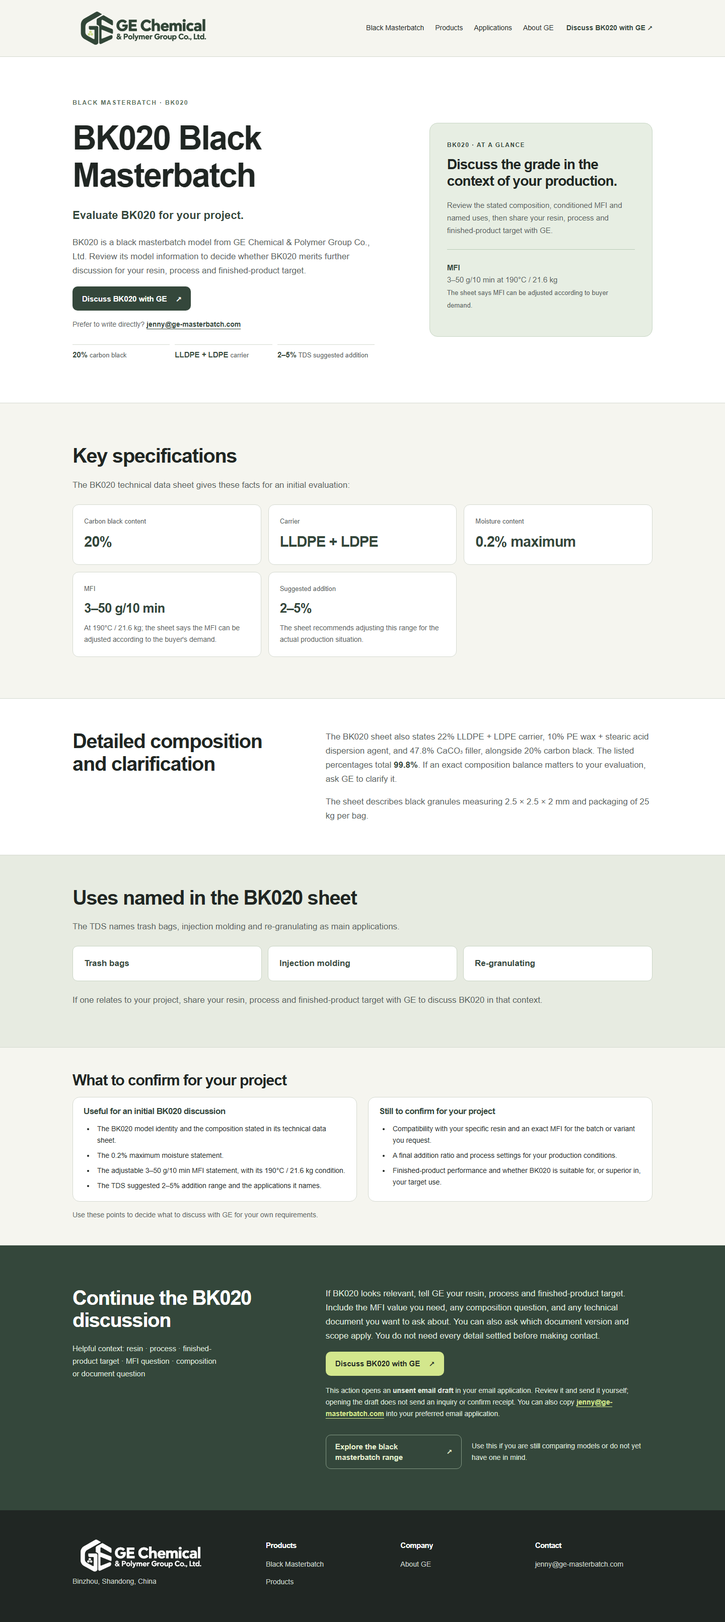
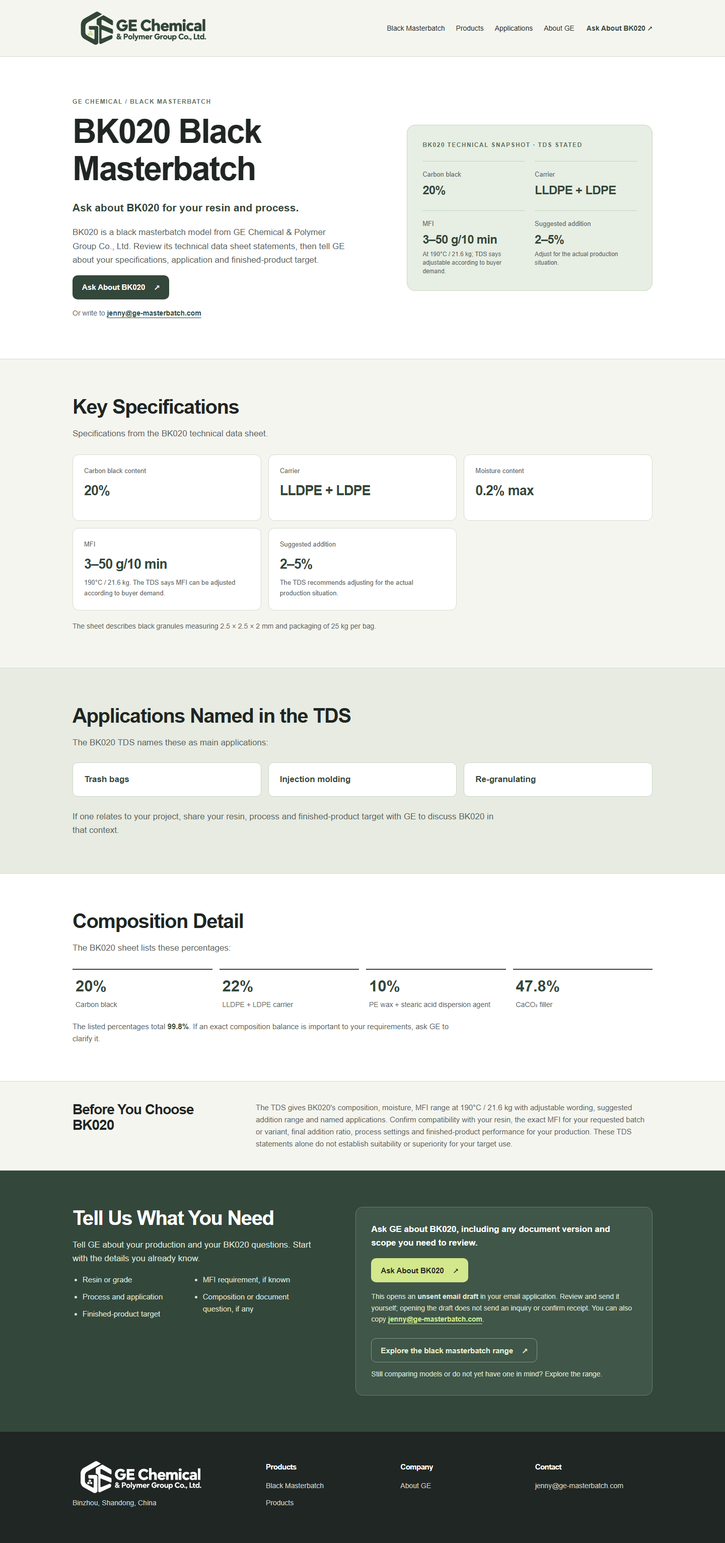
Refocus P017 visual on technical inquiries

diff --git a/planning/visuals/P017/p017-visual.css b/planning/visuals/P017/p017-visual.css
@@ -1,12 +1,6 @@
-:root{--ink:#202623;--green:#34473b;--paper:#f5f5ef;--accent:#d3e78d;--muted:#59645d;--line:#d5dad1}*{box-sizing:border-box}html{scroll-behavior:smooth}body{margin:0;color:var(--ink);background:var(--paper);font:17px/1.65 Arial,Helvetica,sans-serif}a{color:inherit;text-underline-offset:4px}a:focus-visible,summary:focus-visible{outline:3px solid #668821;outline-offset:4px}h1,h2,h3,p{margin-top:0}h1,h2,h3{line-height:1.12;letter-spacing:-.035em}h1{font-size:66px;margin:0 0 24px}h2{font-size:40px;margin:0 0 22px}h3{font-size:22px}p{color:var(--muted)}.shell{max-width:1280px;margin:auto;padding:0 64px}.draft-note{text-align:center;background:#e4e6dd;padding:8px;font-size:12px;color:#455047}.site-header{border-bottom:1px solid var(--line)}.header-inner{height:112px;display:flex;align-items:center;gap:25px;position:relative}.brand{display:block;width:280px;height:82px;flex:none;overflow:hidden}.brand img{width:100%;height:100%;object-fit:cover}.desktop-nav{margin-left:auto;display:flex;gap:22px}.desktop-nav a{font-size:14px;text-decoration:none;white-space:nowrap}.header-inquiry{font-size:14px;color:var(--green);font-weight:700;text-decoration:none;white-space:nowrap}.mobile-menu{display:none}.module{border-bottom:1px solid var(--line)}.module>.shell{padding-top:82px;padding-bottom:82px}.hero{background:#fff}.hero-layout{display:grid;grid-template-columns:1.1fr .9fr;gap:58px;align-items:center;min-height:620px}.hero p{max-width:620px}.eyebrow,.number{display:block;text-transform:uppercase;letter-spacing:.15em;font-size:12px;font-weight:700;color:#59705b;margin:0 0 23px}.lead{font-size:22px;color:var(--green)}.hero-art{height:480px;border-radius:16px;background:radial-gradient(circle at 70% 25%,#4d6750,#26362c 57%,#18271e);position:relative;overflow:hidden;display:flex;align-items:center;justify-content:center}.hero-art:before{content:"";position:absolute;inset:35px;border:1px solid #b9ceae44;border-radius:12px}.model-glyph{color:#d3e78d;font-size:110px;font-weight:700;letter-spacing:-.1em;line-height:1}.model-glyph span{display:block;color:#fff;font-size:85px;letter-spacing:.02em;text-align:right}.art-lines{position:absolute;bottom:50px;right:45px;display:grid;gap:9px}.art-lines i{display:block;width:140px;border-top:1px solid #d3e78d88}.art-lines i:nth-child(2){width:100px;margin-left:auto}.art-lines i:nth-child(3){width:60px;margin-left:auto}.btn{display:inline-flex;justify-content:space-between;align-items:center;gap:18px;min-height:48px;padding:12px 18px;border:1px solid transparent;border-radius:10px;font-size:15px;line-height:1.4;font-weight:600;text-decoration:none}.primary{background:var(--green);color:#fff}.primary:hover{background:#293d30}.secondary{border-color:#aebbad;color:var(--green)}.secondary:hover{background:#e8ede3}.direct{font-size:14px;margin:16px 0 0}.direct a,.mailto-note a{color:var(--green);font-weight:700}.section-top{max-width:760px}.facts{background:var(--paper)}table{width:100%;border-collapse:collapse;margin-top:32px;background:#fff}th,td{text-align:left;padding:18px 22px;border-bottom:1px solid var(--line);vertical-align:top}thead th{background:var(--green);color:#fff;font-size:14px}tbody th{width:30%;color:var(--green)}tbody td{max-width:700px}.section-grid{display:grid;grid-template-columns:.8fr 1.2fr;gap:70px}.prose{max-width:720px}.prose p:last-child{margin-bottom:0}.composition{background:#fff}.composition strong{color:var(--green)}.uses{background:#e7ebe1}.decision{background:#fff}.decision-grid{display:grid;grid-template-columns:1fr 1fr;gap:22px;margin-top:34px}.decision-card{padding:30px;border-radius:14px;background:#e7eee3;border:1px solid #c8d6c5}.decision-card h3{color:var(--green);margin-bottom:22px}.muted-card{background:var(--paper);border-color:var(--line)}.decision-card ul{padding-left:22px;margin:0}.decision-card li{margin:0 0 15px;padding-left:5px}.decision-card li:last-child{margin-bottom:0}.decision-close{margin:25px 0 0}.closing{background:var(--green);border:0}.closing h2,.closing .number{color:#fff}.closing p{color:#dde5da}.closing .primary{background:var(--accent);color:var(--ink)}.closing .primary:hover{background:#e0ecb0}.closing .secondary{color:#e3edce;border-color:#819783}.mailto-note{font-size:14px;margin-top:18px}.mailto-note a{color:var(--accent)}.secondary-line{display:flex;align-items:center;gap:20px;margin-top:30px}.secondary-line span{font-size:14px}.site-footer{background:var(--ink);color:#fff}.footer-grid{display:grid;grid-template-columns:1.5fr 1fr 1fr 1fr;gap:34px;padding-top:50px;padding-bottom:55px}.footer-identity .brand{width:270px;height:80px}.footer-identity img{filter:grayscale(1) brightness(0) invert(1)}.footer-grid p,.footer-grid a{color:#cbd4cc;font-size:14px}.footer-grid h3{font-size:15px;margin:12px 0 17px}.footer-grid>div:not(:first-child) a{display:block;margin:0 0 12px;text-decoration:none;overflow-wrap:anywhere}
+:root{--ink:#202623;--green:#34473b;--paper:#f5f5ef;--accent:#d3e78d;--muted:#59645d;--line:#d5dad1}*{box-sizing:border-box}html{scroll-behavior:smooth}body{margin:0;background:var(--paper);color:var(--ink);font:17px/1.6 Arial,Helvetica,sans-serif}a{color:inherit;text-underline-offset:4px}a:focus-visible,summary:focus-visible{outline:3px solid #668821;outline-offset:4px}h1,h2,h3,p{margin-top:0}h1,h2,h3{line-height:1.13;letter-spacing:-.035em}h1{font-size:66px;margin-bottom:25px}h2{font-size:40px;margin-bottom:17px}h3{font-size:17px}p{color:var(--muted)}.shell{max-width:1280px;margin:auto;padding:0 64px}.module{border-bottom:1px solid var(--line)}.module>.shell{padding-top:72px;padding-bottom:72px}.site-header{border-bottom:1px solid var(--line)}.header-inner{height:112px;display:flex;align-items:center;gap:24px;position:relative}.brand{display:block;flex:none;width:280px;height:82px;overflow:hidden}.brand img{width:100%;height:100%;object-fit:cover}.desktop-nav{margin-left:auto;display:flex;gap:22px}.desktop-nav a{font-size:14px;text-decoration:none;white-space:nowrap}.header-inquiry{font-size:14px;font-weight:700;color:var(--green);text-decoration:none;white-space:nowrap}.mobile-menu{display:none}.btn{display:inline-flex;align-items:center;justify-content:space-between;gap:18px;min-height:48px;padding:12px 18px;border:1px solid transparent;border-radius:10px;text-decoration:none;font-size:15px;font-weight:700;line-height:1.4}.primary{background:var(--green);color:#fff}.primary:hover{background:#293d30}.secondary{border-color:#859785;color:#e3edce}.secondary:hover{background:#455b47}.hero{background:#fff}.hero-layout{min-height:600px;display:grid;grid-template-columns:1.1fr .9fr;align-items:center;gap:68px}.hero-copy{max-width:620px}.eyebrow,.snapshot-label{text-transform:uppercase;letter-spacing:.12em;font-size:12px;font-weight:700;color:#59705b}.lead{font-size:21px;color:var(--green);font-weight:700;line-height:1.4}.hero-copy>p:not(.eyebrow):not(.lead):not(.direct){max-width:550px}.direct{font-size:14px;margin:16px 0 0}.direct a{color:var(--green);font-weight:700}.snapshot{background:#e7eee3;border:1px solid #c8d6c5;border-radius:16px;padding:30px}.snapshot-label{margin:0 0 22px}.snapshot-grid{display:grid;grid-template-columns:1fr 1fr;gap:20px}.snapshot-grid>div{padding-top:16px;border-top:1px solid #c6d3c3}.snapshot-grid span,.spec span{display:block;color:var(--muted);font-size:13px}.snapshot-grid strong{display:block;color:var(--green);font-size:24px;line-height:1.2;letter-spacing:-.03em;margin:6px 0}.snapshot-grid small{display:block;color:var(--muted);font-size:12px;line-height:1.4}.intro{max-width:800px}.specs{background:var(--paper)}.spec-grid{display:grid;grid-template-columns:repeat(3,1fr);gap:14px;margin-top:28px}.spec{background:#fff;border:1px solid var(--line);border-radius:12px;padding:22px;min-height:132px}.spec strong{display:block;color:var(--green);font-size:27px;line-height:1.18;letter-spacing:-.035em;margin:13px 0 0;overflow-wrap:anywhere}.spec p{font-size:13px;margin:10px 0 0}.minor-detail{font-size:14px;margin:20px 0 0}.uses{background:#e7ebe1}.use-grid{display:grid;grid-template-columns:repeat(3,1fr);gap:14px;margin:26px 0}.use-grid div{padding:19px 22px;background:#fff;border:1px solid #cad5c5;border-radius:10px;font-weight:700;color:var(--green)}.use-note{max-width:850px;margin-bottom:0}.composition{background:#fff}.composition-grid{display:grid;grid-template-columns:repeat(4,1fr);gap:14px;margin:28px 0 20px}.composition-grid div{border-top:2px solid var(--green);padding:16px 6px 0}.composition-grid strong{display:block;font-size:31px;color:var(--green);line-height:1.1}.composition-grid span{display:block;font-size:14px;color:var(--muted);margin-top:8px}.composition-note{font-size:15px;max-width:780px;margin-bottom:0}.composition-note strong{color:var(--green)}.boundary{background:var(--paper)}.boundary>.shell{padding-top:40px;padding-bottom:40px}.boundary-inner{display:grid;grid-template-columns:300px 1fr;gap:64px}.boundary h2{font-size:28px;margin:0}.boundary p{font-size:15px;margin:0}.contact{background:var(--green);border:0}.contact-grid{display:grid;grid-template-columns:.9fr 1.1fr;gap:80px}.contact h2{color:#fff}.contact p,.hint-list{color:#dce5d9}.hint-list{columns:2;padding-left:20px;font-size:15px}.hint-list li{break-inside:avoid;margin-bottom:10px}.contact-action{padding:30px;background:#405648;border:1px solid #667e6a;border-radius:14px}.contact-action>p:first-child{color:#fff;font-weight:700}.contact-action .primary{background:var(--accent);color:var(--ink)}.contact-action .primary:hover{background:#e0ecb0}.mailto-note,.secondary-note{font-size:14px}.mailto-note{margin:17px 0 27px}.mailto-note a{color:var(--accent);font-weight:700}.contact-action .secondary{max-width:100%}.secondary-note{margin:12px 0 0}.site-footer{background:var(--ink);color:#fff}.footer-grid{display:grid;grid-template-columns:1.5fr 1fr 1fr 1fr;gap:34px;padding-top:50px;padding-bottom:55px}.footer-identity .brand{width:270px;height:80px}.footer-identity img{filter:grayscale(1) brightness(0) invert(1)}.footer-grid p,.footer-grid a{color:#cbd4cc;font-size:14px}.footer-grid h3{font-size:15px;margin:12px 0 17px}.footer-grid>div:not(:first-child) a{display:block;margin:0 0 12px;text-decoration:none;overflow-wrap:anywhere}
 @media(max-width:1100px){.desktop-nav,.header-inquiry{display:none}.mobile-menu{display:block;margin-left:auto}.mobile-menu summary{cursor:pointer;list-style:none}.mobile-menu nav{position:absolute;right:36px;left:36px;top:100%;z-index:5;background:var(--paper);padding:15px 20px;border:1px solid var(--line);box-shadow:0 10px 18px #20262322}.mobile-menu nav a{display:block;padding:10px}.footer-grid{grid-template-columns:1fr 1fr}}
-@media(max-width:1000px){.shell{padding:0 36px}.module>.shell{padding-top:60px;padding-bottom:60px}h1{font-size:49px}h2{font-size:33px}.hero-layout{gap:30px;min-height:0}.hero-art{height:390px}.model-glyph{font-size:75px}.model-glyph span{font-size:65px}.section-grid{gap:35px}}
-@media(max-width:760px){.hero-layout,.section-grid,.decision-grid{grid-template-columns:1fr}.hero-art{height:240px;max-width:540px}.decision-grid{gap:15px}table,thead,tbody,tr,th,td{display:block}thead{display:none}tbody tr{display:grid;grid-template-columns:1fr 1.4fr;gap:10px;background:#fff;border-bottom:1px solid var(--line)}tbody th,tbody td{width:auto;border:0;padding:15px 12px}.secondary-line{display:block}.secondary-line span{display:block;margin-top:15px}}
-@media(max-width:600px){body{font-size:16px}.draft-note{text-align:left;padding-left:24px}.shell{padding:0 24px}.header-inner{height:82px}.brand{width:238px;height:68px}.mobile-menu nav{left:24px;right:24px}.module>.shell{padding-top:48px;padding-bottom:48px}h1{font-size:43px}h2{font-size:31px}.lead{font-size:19px}.hero-art{height:210px}.model-glyph{font-size:65px}.model-glyph span{font-size:55px}.decision-card{padding:23px}.footer-grid{grid-template-columns:1fr;gap:15px}.footer-identity .brand{width:280px;height:83px}.actions .btn,.secondary-line .btn{width:100%}tbody tr{grid-template-columns:1fr}tbody th{padding:14px 17px 0}tbody td{padding:0 17px 15px;overflow-wrap:anywhere}}
-@media(max-width:360px){h1{font-size:38px}.brand{width:190px;height:56px}}@media(prefers-reduced-motion:reduce){html{scroll-behavior:auto}}
-.hero-layout{grid-template-columns:1.2fr .8fr;gap:44px;min-height:550px}.hero-card{background:#e7eee3;border:1px solid #c8d6c5;border-radius:16px;padding:34px}.hero-card .card-label{color:var(--green);font-size:12px;text-transform:uppercase;letter-spacing:.12em;font-weight:700}.hero-card h2{font-size:28px;line-height:1.17;margin:0 0 20px}.hero-card p{font-size:15px}.hero-card strong{color:var(--green)}.hero-card small{font-size:13px;color:var(--muted)}.card-rule{border-top:1px solid #b9ccb7;margin:24px 0}.hero-facts{display:grid;grid-template-columns:1fr 1fr;gap:10px;margin-top:28px;max-width:600px}.hero-facts span{display:block;border-top:1px solid var(--line);padding-top:8px;color:var(--muted);font-size:13px}.hero-facts strong{color:var(--green);font-size:15px}.spec-grid{display:grid;grid-template-columns:repeat(3,1fr);gap:14px;margin-top:24px}.spec{background:#fff;border:1px solid var(--line);border-radius:12px;padding:22px;min-height:120px}.spec span{display:block;color:var(--muted);font-size:13px;margin-bottom:14px}.spec strong{display:block;color:var(--green);font-size:29px;line-height:1.15;letter-spacing:-.03em}.spec p{font-size:14px;margin:12px 0 0}.spec-wide{grid-column:span 1}.spec-wide strong{font-size:26px}.composition .module,.uses .module{padding:0}.composition>.shell,.uses>.shell,.decision>.shell{padding-top:62px;padding-bottom:62px}.use-grid{display:grid;grid-template-columns:repeat(3,1fr);gap:12px;margin:24px 0}.use-grid div{padding:20px 22px;border-radius:10px;background:#fff;border:1px solid #cad5c5;color:var(--green);font-weight:700}.decision{background:var(--paper)}.decision-card{padding:23px;background:#fff;border-color:var(--line)}.decision-card h3{font-size:19px}.decision-card li{font-size:15px;margin-bottom:10px}.decision-grid{margin-top:23px}.decision-close{font-size:15px}.contact-hint{font-size:15px;color:#dce6d6;max-width:300px}
-@media(max-width:1000px){.hero-layout{min-height:0}.hero-card{padding:25px}.hero-card h2{font-size:24px}.spec-grid{grid-template-columns:repeat(2,1fr)}.spec-wide{grid-column:auto}}
-@media(max-width:760px){.hero-layout{grid-template-columns:1fr}.hero-card{max-width:560px}.use-grid{grid-template-columns:1fr 1fr}}
-@media(max-width:600px){.hero-facts{grid-template-columns:1fr 1fr}.hero-facts strong{display:block}.spec-grid{grid-template-columns:1fr 1fr;gap:10px}.spec{padding:17px;min-height:110px}.spec strong,.spec-wide strong{font-size:23px;overflow-wrap:anywhere}.spec:nth-child(2){grid-column:auto}.spec-wide{grid-column:span 2}.use-grid{grid-template-columns:1fr}.use-grid div{padding:15px 18px}.hero-card{padding:23px}.hero-card h2{font-size:23px}}
-.decision>.shell{padding-top:48px;padding-bottom:48px}.decision h2{font-size:30px;margin-bottom:16px}.decision-grid{margin-top:0}.decision-card{padding:18px 21px}.decision-card h3{font-size:17px;margin-bottom:14px}.decision-card li{font-size:14px;margin-bottom:7px}.decision-close{font-size:14px;margin-top:15px}.hero-facts{grid-template-columns:repeat(3,1fr)}
-@media(max-width:600px){.hero-facts{grid-template-columns:1fr 1fr}.decision h2{font-size:27px}}
+@media(max-width:1000px){.shell{padding:0 36px}.module>.shell{padding-top:56px;padding-bottom:56px}h1{font-size:49px}h2{font-size:33px}.hero-layout{min-height:0;gap:30px}.snapshot{padding:22px}.snapshot-grid{gap:13px}.snapshot-grid strong{font-size:20px}.spec-grid{grid-template-columns:repeat(2,1fr)}.composition-grid{grid-template-columns:repeat(2,1fr)}.boundary-inner{grid-template-columns:230px 1fr;gap:30px}.contact-grid{gap:35px}}
+@media(max-width:760px){.hero-layout,.contact-grid,.boundary-inner{grid-template-columns:1fr}.snapshot{max-width:620px}.use-grid{grid-template-columns:1fr 1fr}.boundary-inner{gap:12px}.hint-list{columns:1}}
+@media(max-width:600px){body{font-size:16px}.shell{padding:0 24px}.header-inner{height:82px}.brand{width:238px;height:68px}.mobile-menu nav{left:24px;right:24px}.module>.shell{padding-top:46px;padding-bottom:46px}h1{font-size:43px}h2{font-size:31px}.lead{font-size:18px}.hero .btn{width:100%}.snapshot-grid{grid-template-columns:1fr 1fr}.snapshot-grid strong{font-size:19px}.spec-grid{grid-template-columns:1fr 1fr;gap:10px}.spec{padding:17px;min-height:116px}.spec strong{font-size:22px}.spec:nth-child(n+4){grid-column:span 2}.composition-grid{gap:12px}.composition-grid strong{font-size:26px}.use-grid{grid-template-columns:1fr;gap:9px}.use-grid div{padding:14px 18px}.boundary h2{font-size:25px}.contact-action{padding:22px}.contact-action .btn{width:100%}.footer-grid{grid-template-columns:1fr;gap:15px}.footer-identity .brand{width:280px;height:83px}}
+@media(max-width:360px){h1{font-size:38px}.brand{width:190px;height:56px}.snapshot-grid{grid-template-columns:1fr}}@media(prefers-reduced-motion:reduce){html{scroll-behavior:auto}}

diff --git a/planning/visuals/P017/p017-visual.html b/planning/visuals/P017/p017-visual.html
@@ -1,10 +1,10 @@
 <!doctype html><html lang="en"><head><meta charset="utf-8"><meta name="viewport" content="width=device-width, initial-scale=1"><title>BK020 Black Masterbatch | GE Chemical</title><meta name="description" content="Explore BK020 black masterbatch: composition, moisture, MFI and TDS-stated uses. Discuss your resin, process and target with GE."><link rel="stylesheet" href="p017-visual.css"></head><body>
-<header class="site-header"><div class="shell header-inner"><a class="brand" href="/" aria-label="GE Chemical homepage"><img src="../P001/assets/ge-logo-candidate.png" alt="GE Chemical &amp; Polymer Group Co., Ltd."></a><nav class="desktop-nav" aria-label="Primary navigation"><a href="/products/black-masterbatch/">Black Masterbatch</a><a href="/products/">Products</a><a href="/applications/">Applications</a><a href="/about/">About GE</a></nav><a class="header-inquiry" href="mailto:jenny@ge-masterbatch.com?subject=BK020%20evaluation%20question">Discuss BK020 with GE ↗</a><details class="mobile-menu"><summary>Menu ☰</summary><nav aria-label="Mobile navigation"><a href="/products/black-masterbatch/">Black Masterbatch</a><a href="/products/">Products</a><a href="/applications/">Applications</a><a href="/about/">About GE</a><a href="mailto:jenny@ge-masterbatch.com?subject=BK020%20evaluation%20question">Discuss BK020 with GE</a></nav></details></div></header>
+<header class="site-header"><div class="shell header-inner"><a class="brand" href="/" aria-label="GE Chemical homepage"><img src="../P001/assets/ge-logo-candidate.png" alt="GE Chemical &amp; Polymer Group Co., Ltd."></a><nav class="desktop-nav" aria-label="Primary navigation"><a href="/products/black-masterbatch/">Black Masterbatch</a><a href="/products/">Products</a><a href="/applications/">Applications</a><a href="/about/">About GE</a></nav><a class="header-inquiry" href="mailto:jenny@ge-masterbatch.com?subject=BK020%20evaluation%20question">Ask About BK020 ↗</a><details class="mobile-menu"><summary>Menu ☰</summary><nav aria-label="Mobile navigation"><a href="/products/black-masterbatch/">Black Masterbatch</a><a href="/products/">Products</a><a href="/applications/">Applications</a><a href="/about/">About GE</a><a href="mailto:jenny@ge-masterbatch.com?subject=BK020%20evaluation%20question">Ask About BK020</a></nav></details></div></header>
 <main>
-<section class="hero module"><div class="shell hero-layout"><div><p class="eyebrow">Black masterbatch · BK020</p><h1>BK020 Black Masterbatch</h1><p class="lead"><strong>Evaluate BK020 for your project.</strong></p><p>BK020 is a black masterbatch model from GE Chemical &amp; Polymer Group Co., Ltd. Review its model information to decide whether BK020 merits further discussion for your resin, process and finished-product target.</p><div class="actions"><a class="btn primary" href="mailto:jenny@ge-masterbatch.com?subject=BK020%20evaluation%20question">Discuss BK020 with GE <span aria-hidden="true">↗</span></a></div><p class="direct">Prefer to write directly? <a href="mailto:jenny@ge-masterbatch.com">jenny@ge-masterbatch.com</a></p><div class="hero-facts"><span><strong>20%</strong> carbon black</span><span><strong>LLDPE + LDPE</strong> carrier</span><span><strong>2–5%</strong> TDS suggested addition</span></div></div><div class="hero-card"><p class="card-label">BK020 · At a glance</p><h2>Discuss the grade in the context of your production.</h2><p>Review the stated composition, conditioned MFI and named uses, then share your resin, process and finished-product target with GE.</p><div class="card-rule"></div><p><strong>MFI</strong><br>3–50 g/10 min at 190°C / 21.6 kg<br><small>The sheet says MFI can be adjusted according to buyer demand.</small></p></div></div></section>
-<section class="facts module"><div class="shell"><div class="section-top"><h2>Key specifications</h2><p>The BK020 technical data sheet gives these facts for an initial evaluation:</p></div><div class="spec-grid"><div class="spec"><span>Carbon black content</span><strong>20%</strong></div><div class="spec"><span>Carrier</span><strong>LLDPE + LDPE</strong></div><div class="spec"><span>Moisture content</span><strong>0.2% maximum</strong></div><div class="spec spec-wide"><span>MFI</span><strong>3–50 g/10 min</strong><p>At 190°C / 21.6 kg; the sheet says the MFI can be adjusted according to the buyer's demand.</p></div><div class="spec spec-wide"><span>Suggested addition</span><strong>2–5%</strong><p>The sheet recommends adjusting this range for the actual production situation.</p></div></div></div></section>
-<section class="composition module"><div class="shell section-grid"><div><h2>Detailed composition and clarification</h2></div><div class="prose"><p>The BK020 sheet also states 22% LLDPE + LDPE carrier, 10% PE wax + stearic acid dispersion agent, and 47.8% CaCO₃ filler, alongside 20% carbon black. The listed percentages total <strong>99.8%</strong>. If an exact composition balance matters to your evaluation, ask GE to clarify it.</p><p>The sheet describes black granules measuring 2.5 × 2.5 × 2 mm and packaging of 25 kg per bag.</p></div></div></section>
-<section class="uses module"><div class="shell"><h2>Uses named in the BK020 sheet</h2><p>The TDS names trash bags, injection molding and re-granulating as main applications.</p><div class="use-grid"><div>Trash bags</div><div>Injection molding</div><div>Re-granulating</div></div><p>If one relates to your project, share your resin, process and finished-product target with GE to discuss BK020 in that context.</p></div></section>
-<section class="decision module"><div class="shell"><h2>What to confirm for your project</h2><div class="decision-grid"><div class="decision-card"><h3>Useful for an initial BK020 discussion</h3><ul><li>The BK020 model identity and the composition stated in its technical data sheet.</li><li>The 0.2% maximum moisture statement.</li><li>The adjustable 3–50 g/10 min MFI statement, with its 190°C / 21.6 kg condition.</li><li>The TDS suggested 2–5% addition range and the applications it names.</li></ul></div><div class="decision-card muted-card"><h3>Still to confirm for your project</h3><ul><li>Compatibility with your specific resin and an exact MFI for the batch or variant you request.</li><li>A final addition ratio and process settings for your production conditions.</li><li>Finished-product performance and whether BK020 is suitable for, or superior in, your target use.</li></ul></div></div><p class="decision-close">Use these points to decide what to discuss with GE for your own requirements.</p></div></section>
-<section class="closing module"><div class="shell section-grid"><div><h2>Continue the BK020 discussion</h2><p class="contact-hint">Helpful context: resin · process · finished-product target · MFI question · composition or document question</p></div><div class="prose"><p>If BK020 looks relevant, tell GE your resin, process and finished-product target. Include the MFI value you need, any composition question, and any technical document you want to ask about. You can also ask which document version and scope apply. You do not need every detail settled before making contact.</p><div class="actions"><a class="btn primary" href="mailto:jenny@ge-masterbatch.com?subject=BK020%20evaluation%20question">Discuss BK020 with GE <span aria-hidden="true">↗</span></a></div><p class="mailto-note">This action opens an <strong>unsent email draft</strong> in your email application. Review it and send it yourself; opening the draft does not send an inquiry or confirm receipt. You can also copy <a href="mailto:jenny@ge-masterbatch.com">jenny@ge-masterbatch.com</a> into your preferred email application.</p><p class="secondary-line"><a class="btn secondary" href="/products/black-masterbatch/">Explore the black masterbatch range <span aria-hidden="true">↗</span></a> <span>Use this if you are still comparing models or do not yet have one in mind.</span></p></div></div></section>
+<section class="hero module"><div class="shell hero-layout"><div class="hero-copy"><p class="eyebrow">GE Chemical / Black masterbatch</p><h1>BK020 Black Masterbatch</h1><p class="lead">Ask about BK020 for your resin and process.</p><p>BK020 is a black masterbatch model from GE Chemical &amp; Polymer Group Co., Ltd. Review its technical data sheet statements, then tell GE about your specifications, application and finished-product target.</p><a class="btn primary" href="mailto:jenny@ge-masterbatch.com?subject=BK020%20evaluation%20question">Ask About BK020 <span aria-hidden="true">↗</span></a><p class="direct">Or write to <a href="mailto:jenny@ge-masterbatch.com">jenny@ge-masterbatch.com</a></p></div><div class="snapshot"><p class="snapshot-label">BK020 technical snapshot · TDS stated</p><div class="snapshot-grid"><div><span>Carbon black</span><strong>20%</strong></div><div><span>Carrier</span><strong>LLDPE + LDPE</strong></div><div><span>MFI</span><strong>3–50 g/10 min</strong><small>At 190°C / 21.6 kg; TDS says adjustable according to buyer demand.</small></div><div><span>Suggested addition</span><strong>2–5%</strong><small>Adjust for the actual production situation.</small></div></div></div></div></section>
+<section class="specs module"><div class="shell"><div class="intro"><h2>Key Specifications</h2><p>Specifications from the BK020 technical data sheet.</p></div><div class="spec-grid"><div class="spec"><span>Carbon black content</span><strong>20%</strong></div><div class="spec"><span>Carrier</span><strong>LLDPE + LDPE</strong></div><div class="spec"><span>Moisture content</span><strong>0.2% max</strong></div><div class="spec"><span>MFI</span><strong>3–50 g/10 min</strong><p>190°C / 21.6 kg. The TDS says MFI can be adjusted according to buyer demand.</p></div><div class="spec"><span>Suggested addition</span><strong>2–5%</strong><p>The TDS recommends adjusting for the actual production situation.</p></div></div><p class="minor-detail">The sheet describes black granules measuring 2.5 × 2.5 × 2 mm and packaging of 25 kg per bag.</p></div></section>
+<section class="uses module"><div class="shell"><div class="intro"><h2>Applications Named in the TDS</h2><p>The BK020 TDS names these as main applications:</p></div><div class="use-grid"><div>Trash bags</div><div>Injection molding</div><div>Re-granulating</div></div><p class="use-note">If one relates to your project, share your resin, process and finished-product target with GE to discuss BK020 in that context.</p></div></section>
+<section class="composition module"><div class="shell"><div class="intro"><h2>Composition Detail</h2><p>The BK020 sheet lists these percentages:</p></div><div class="composition-grid"><div><strong>20%</strong><span>Carbon black</span></div><div><strong>22%</strong><span>LLDPE + LDPE carrier</span></div><div><strong>10%</strong><span>PE wax + stearic acid dispersion agent</span></div><div><strong>47.8%</strong><span>CaCO₃ filler</span></div></div><p class="composition-note">The listed percentages total <strong>99.8%</strong>. If an exact composition balance is important to your requirements, ask GE to clarify it.</p></div></section>
+<section class="boundary module"><div class="shell boundary-inner"><h2>Before You Choose BK020</h2><p>The TDS gives BK020's composition, moisture, MFI range at 190°C / 21.6 kg with adjustable wording, suggested addition range and named applications. Confirm compatibility with your resin, the exact MFI for your requested batch or variant, final addition ratio, process settings and finished-product performance for your production. These TDS statements alone do not establish suitability or superiority for your target use.</p></div></section>
+<section class="contact module"><div class="shell contact-grid"><div><h2>Tell Us What You Need</h2><p>Tell GE about your production and your BK020 questions. Start with the details you already know.</p><ul class="hint-list"><li>Resin or grade</li><li>Process and application</li><li>Finished-product target</li><li>MFI requirement, if known</li><li>Composition or document question, if any</li></ul></div><div class="contact-action"><p>Ask GE about BK020, including any document version and scope you need to review.</p><a class="btn primary" href="mailto:jenny@ge-masterbatch.com?subject=BK020%20evaluation%20question">Ask About BK020 <span aria-hidden="true">↗</span></a><p class="mailto-note">This opens an <strong>unsent email draft</strong> in your email application. Review and send it yourself; opening the draft does not send an inquiry or confirm receipt. You can also copy <a href="mailto:jenny@ge-masterbatch.com">jenny@ge-masterbatch.com</a>.</p><a class="btn secondary" href="/products/black-masterbatch/">Explore the black masterbatch range <span aria-hidden="true">↗</span></a><p class="secondary-note">Still comparing models or do not yet have one in mind? Explore the range.</p></div></div></section>
 </main><footer class="site-footer"><div class="shell footer-grid"><div class="footer-identity"><a class="brand" href="/" aria-label="GE Chemical homepage"><img src="../P001/assets/ge-logo-candidate.png" alt="GE Chemical &amp; Polymer Group Co., Ltd."></a><p>Binzhou, Shandong, China</p></div><div><h3>Products</h3><a href="/products/black-masterbatch/">Black Masterbatch</a><a href="/products/">Products</a></div><div><h3>Company</h3><a href="/about/">About GE</a></div><div><h3>Contact</h3><a href="mailto:jenny@ge-masterbatch.com">jenny@ge-masterbatch.com</a></div></div></footer></body></html>

diff --git a/planning/pages/P017.md b/planning/pages/P017.md
@@ -212,3 +212,7 @@ Editable source: `../visuals/P017/p017-visual.html` and `p017-visual.css`. Revie
 The three complete-page exports were inspected for copy, technical qualifiers, legibility and horizontal overflow; no overflow was observed at 1440, 768 or 390 px. These are static visual checks, not WordPress runtime or actual email-delivery verification. The shared navigation/footer and any destination not yet implemented require route checking during a later build. Owner visual review is next; no WordPress implementation or release is approved by this draft. `Status: PLANNED`.
 
 Owner-directed Gate 3 revision, 2026-10-03: The owner requested a more compact industrial model-page presentation without changing Gate 1 or Full Copy. The revised complete exports at the same three widths replace the original exports under the same filenames. The oversized decorative BK020 card and internal numbered labels are gone. Hero now shows three concise facts plus a conditioned, adjustable MFI information card; five compact specification cards replace the large table. Composition and the 99.8% clarification remain supporting detail; the three TDS-named applications have scannable labels; the project-confirmation area is visually quieter. The unsent email-draft explanation and P013 range exit remain visible. Visual inspection found no horizontal overflow at 1440, 768 or 390 px. This is a revised static draft for owner review, not visual approval or WordPress runtime verification. `Status: PLANNED`.
+
+Latest owner-directed Gate 3 inquiry revision, 2026-10-03: The owner explicitly authorized changes to buyer-visible headings, CTA wording, microcopy, module order and conversion path while retaining the approved product facts. The revised candidate uses one Hero technical snapshot and `Ask About BK020`, followed by Key Specifications, Applications Named in the TDS, Composition Detail, a compact Before You Choose BK020 note, and Tell Us What You Need. The inquiry context covers resin/grade, process/application, finished-product target, an MFI requirement if known, and composition/document questions if any; buyers may start with the details they already know. The composition percentages are displayed separately, with the listed 99.8% total as supporting clarification. No product photograph, extra use, performance, fit, document, supply or response promise was added.
+
+The amended buyer-visible language is a Gate 3 candidate in `../visuals/P017/p017-visual.html`; the earlier approved Full Copy above remains the factual reference. Reconcile the approved presentation wording into that single Full Copy section after owner visual confirmation and before implementation. Independent read-only buyer-language review of the final visual source returned `REVIEW_READY` with no required findings. The 1440/768/390 exports were rendered and inspected; no horizontal overflow or failed logo loading was observed. Email actions still open an unsent draft and the P013 range route remains the secondary exit; P005/P033/P006 body entrances remain conditional. These checks do not measure inquiry conversion, establish mail delivery or verify WordPress behavior. Owner review of this latest complete static draft is next. `Status: PLANNED`.
